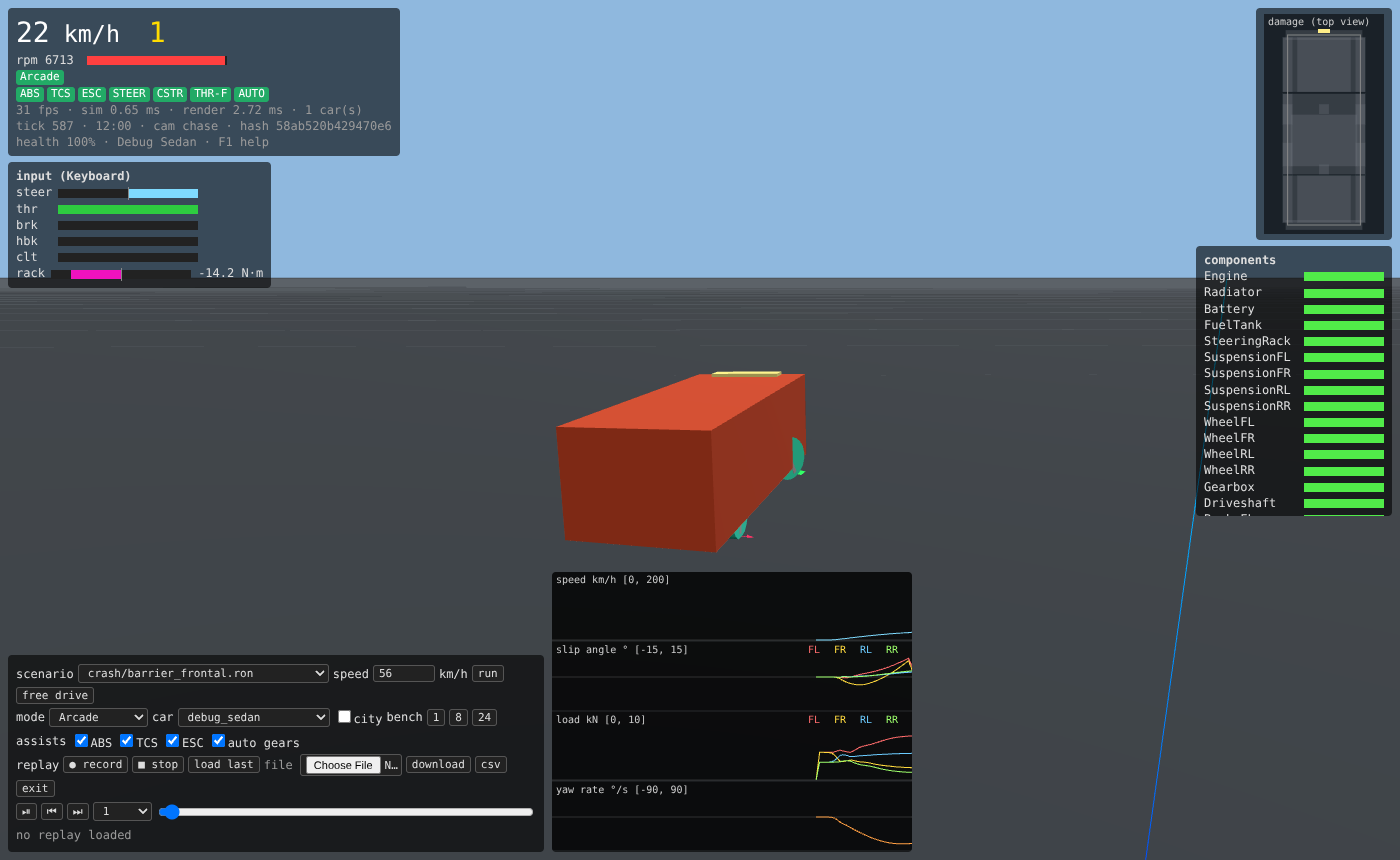
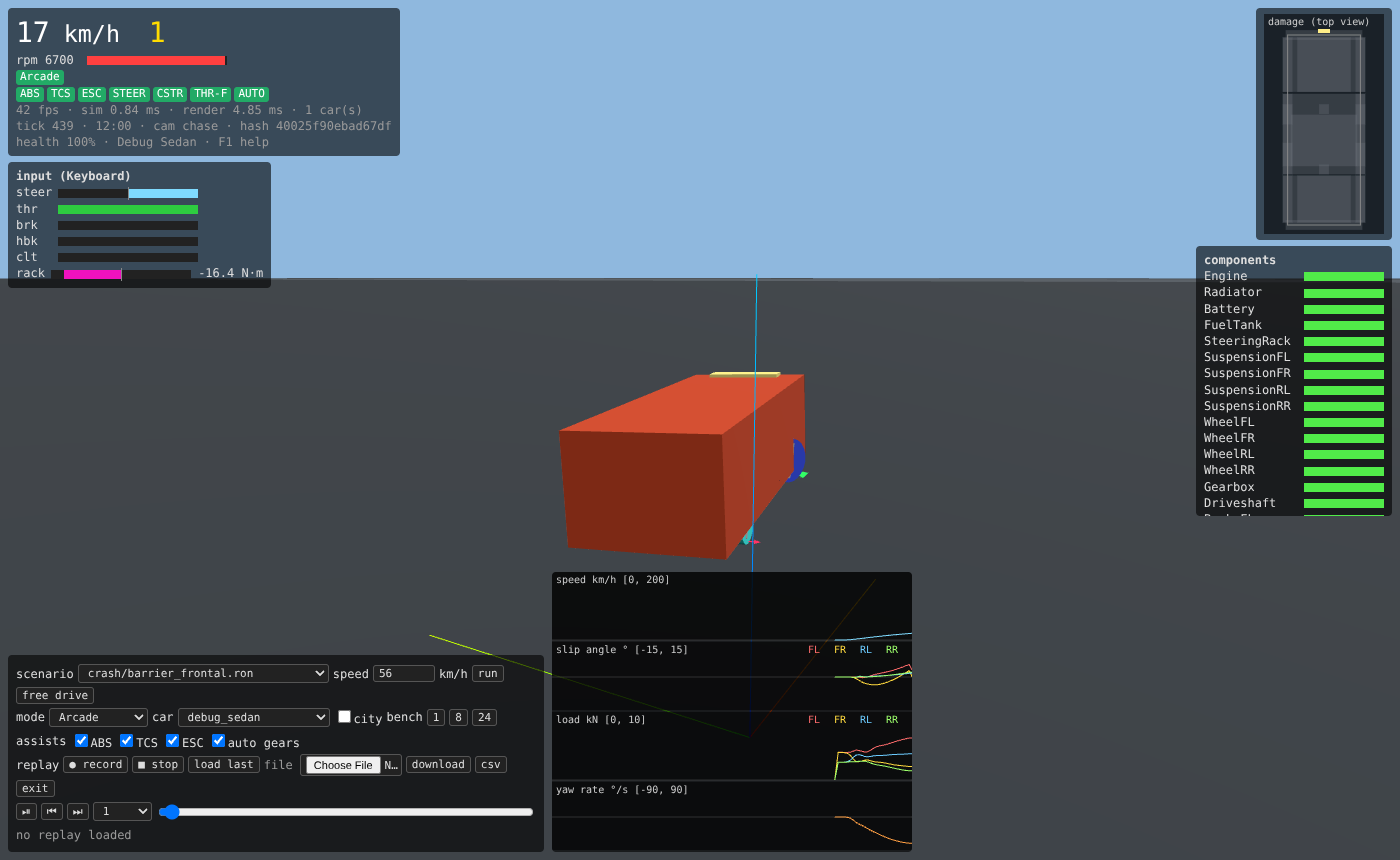
wp_wasm, testbed-web: contract v0.2.0 — tire forces from WheelState, event feed
- Telemetry / force arrows read WheelState::{fx_n, fy_n} (TB-1 landed).
- Event feed panel (hotkey V) shows GlassShattered, RegionDamaged, ComponentFailed,
  PartDetached, TotalLoss, TrafficViolation, ...; e2e checks it on the Sim barrier crash.
- e2e drive check less timing-sensitive; perf and screenshots re-measured.
- docs/integration/testbed.md: contract 0.2.0, run-4 response.

Claude-Session: https://claude.ai/code/session_01PhfNyt9hQ3sYqduitoFp9B

diff --git a/apps/testbed-web/src/hud.ts b/apps/testbed-web/src/hud.ts
@@ -1,7 +1,7 @@
 // DOM/canvas HUD: speed, rpm bar, gear, mode + assist badges, perf, damage silhouette,
 // component health, region energy, input display with rack-torque bar, help overlay.
 import { T } from "./wasm/layout";
-import type { AssistProfile, DriverInput, VehicleInfo } from "./wasm/sim";
+import type { AssistProfile, DriverInput, SimEvent, VehicleInfo } from "./wasm/sim";
 import { layers, LAYERS } from "./settings";
 import { heat, healthColour } from "./vehicle_view";
 
@@ -52,6 +52,8 @@ export class Hud {
   private readonly main: HTMLElement;
   private readonly comps: HTMLElement;
   private readonly regions: HTMLElement;
+  private readonly feed: HTMLElement;
+  private readonly feedLines: string[] = [];
   private readonly inputs: HTMLElement;
   private readonly help: HTMLElement;
   private readonly silhouette: HTMLCanvasElement;
@@ -67,6 +69,7 @@ export class Hud {
     right.appendChild(this.silhouette);
     this.comps = el("div", "panel comps", right);
     this.regions = el("div", "panel regions", right);
+    this.feed = el("div", "panel feed", right);
     this.inputs = el("div", "panel inputs", left);
     this.help = el("div", "panel help hidden", root);
     this.help.innerHTML =
@@ -75,6 +78,26 @@ export class Hud {
       `R reset · O headlights · Q horn · 1 chase · 2 hood · 3 bumper · 4 orbit · 5 cinematic<br>` +
       `F1 or ? this help · P pause · . frame step (replay) · [ / ] replay speed<br><br>` +
       LAYERS.map((l) => `${l.key.replace("Key", "")} — ${l.label}`).join("<br>");
+  }
+
+  /** Append notable sim events (damage, detachment, violations) to the event feed. */
+  pushEvents(events: SimEvent[], tick: number): void {
+    for (const ev of events) {
+      const [kind, body] = Object.entries(ev)[0] ?? [];
+      if (!kind || kind === "Contact" || kind === "LatticeDeformed") continue;
+      const b = (body ?? {}) as Record<string, unknown>;
+      const who = b.vehicle !== undefined ? `#${b.vehicle}` : "";
+      const detail = Object.entries(b)
+        .filter(([k]) => k !== "vehicle" && k !== "pos" && k !== "payload")
+        .map(([k, v]) => `${k}=${typeof v === "number" ? Number(v.toFixed(2)) : JSON.stringify(v)}`)
+        .join(" ");
+      this.feedLines.unshift(`${(tick / 240).toFixed(2)}s ${kind} ${who} ${detail}`);
+    }
+    this.feedLines.length = Math.min(this.feedLines.length, 12);
+  }
+
+  clearEvents(): void {
+    this.feedLines.length = 0;
   }
 
   toggleHelp(): void {
@@ -124,6 +147,12 @@ export class Hud {
         f.info.regions
           .map((r, i) => `<div>${r.padEnd(17, " ")}${f.energy![i].toFixed(0).padStart(6, " ")}</div>`)
           .join("");
+    }
+
+    this.feed.style.display = layers.on("events") && this.feedLines.length ? "" : "none";
+    if (layers.on("events")) {
+      this.feed.innerHTML =
+        "<b>events</b>" + this.feedLines.map((l) => `<div>${l.replace(/</g, "&lt;")}</div>`).join("");
     }
 
     this.inputs.style.display = layers.on("inputs") ? "" : "none";

diff --git a/apps/testbed-web/src/main.ts b/apps/testbed-web/src/main.ts
@@ -73,6 +73,7 @@ async function main(): Promise<void> {
     regions.clear();
     rests.clear();
     scene.clearContacts();
+    hud.clearEvents();
     plots.clear();
     syncViews();
     const ids = sim.entities();
@@ -373,7 +374,9 @@ async function main(): Promise<void> {
         focusRec = o;
       }
     }
-    scene.addEvents(sim.eventsDrain());
+    const events = sim.eventsDrain();
+    scene.addEvents(events);
+    hud.pushEvents(events, sim.worldInfo()[W.tick]);
     scene.update(dt, sim.intents());
     scene.updateAgents(sim.trafficAgents());
     const wi = sim.worldInfo();

diff --git a/apps/testbed-web/src/settings.ts b/apps/testbed-web/src/settings.ts
@@ -22,6 +22,7 @@ export const LAYERS: LayerDef[] = [
   { id: "intents", key: "KeyI", label: "traffic/police intent arrows", default: false },
   { id: "components", key: "KeyK", label: "component health panel", default: true },
   { id: "regions", key: "KeyE", label: "region energy panel", default: false },
+  { id: "events", key: "KeyV", label: "event feed (damage, glass, parts, violations)", default: true },
   { id: "telemetry", key: "KeyJ", label: "telemetry plots", default: true },
   { id: "inputs", key: "KeyN", label: "input display + rack torque", default: true },
 ];

diff --git a/apps/testbed-web/index.html b/apps/testbed-web/index.html
@@ -23,6 +23,7 @@
       .bar i { position: absolute; top: 0; bottom: 0; left: 0; }
       .bar b { position: absolute; top: -2px; bottom: -2px; left: 50%; width: 1px; background: #888; }
       .right-col { position: absolute; top: 8px; right: 8px; display: flex; flex-direction: column; gap: 6px; align-items: flex-end; }
+      .feed { max-width: 360px; max-height: 22vh; overflow: auto; font-size: 11px; }
       .comps, .regions { white-space: pre; max-height: 30vh; overflow: auto; }
       .comps .bar { width: 80px; }
       .inputs { }

diff --git a/crates/wp_wasm/src/pack.rs b/crates/wp_wasm/src/pack.rs
@@ -193,15 +193,9 @@ pub fn telemetry_names() -> Vec<String> {
     n
 }
 
-/// Telemetry record (see [`telemetry_names`]). `tire_forces` are the per-wheel `(Fx, Fy)` the
-/// vehicle applied this tick (`wp_vehicle::Telemetry::fx/fy`: Fx along the wheel heading, Fy
-/// positive to the wheel's left).
-pub fn pack_telemetry(
-    s: &VehicleState,
-    input: &VehicleInput,
-    accel_local: [f32; 3],
-    tire_forces: [(f32, f32); 4],
-) -> Vec<f32> {
+/// Telemetry record (see [`telemetry_names`]). Tire forces are the contract's
+/// `WheelState::{fx_n, fy_n}` (v0.2.0): applied this tick, tire frame, Fx + forward, Fy + left.
+pub fn pack_telemetry(s: &VehicleState, input: &VehicleInput, accel_local: [f32; 3]) -> Vec<f32> {
     let g = wp_contracts::GRAVITY_MPS2;
     let steer = (s.wheel_states[0].steer_rad + s.wheel_states[1].steer_rad) * 0.5;
     let mut out = vec![
@@ -219,8 +213,7 @@ pub fn pack_telemetry(
         input.steer,
         input.handbrake,
     ];
-    for (i, w) in s.wheel_states.iter().enumerate() {
-        let (fx, fy) = tire_forces[i];
+    for w in &s.wheel_states {
         out.extend_from_slice(&[
             w.slip_angle,
             w.slip_ratio,
@@ -230,8 +223,8 @@ pub fn pack_telemetry(
             b(w.contact),
             b(w.detached),
             w.omega,
-            fx,
-            fy,
+            w.fx_n,
+            w.fy_n,
         ]);
     }
     for c in ALL_COMPONENTS {
@@ -315,12 +308,7 @@ mod tests {
 
     #[test]
     fn telemetry_names_match_record() {
-        let rec = pack_telemetry(
-            &VehicleState::default(),
-            &VehicleInput::default(),
-            [0.0; 3],
-            [(0.0, 0.0); 4],
-        );
+        let rec = pack_telemetry(&VehicleState::default(), &VehicleInput::default(), [0.0; 3]);
         assert_eq!(rec.len(), telemetry_names().len());
         assert_eq!(
             TELEMETRY_WHEEL_BASE + 4 * TELEMETRY_WHEEL_STRIDE + ALL_COMPONENTS.len(),

diff --git a/crates/wp_wasm/src/session.rs b/crates/wp_wasm/src/session.rs
@@ -518,15 +518,6 @@ impl Session {
         self.index(id).map(|i| self.sim.vehicles()[i].vehicle.ffb())
     }
 
-    /// Tire forces `(Fx, Fy-left)` per wheel actually applied by the vehicle last tick, N.
-    pub fn tire_forces(&self, id: EntityId) -> [(f32, f32); 4] {
-        let Some(i) = self.index(id) else {
-            return [(0.0, 0.0); 4];
-        };
-        let t = self.sim.vehicles()[i].vehicle.telemetry();
-        std::array::from_fn(|w| (t.fx[w], t.fy[w]))
-    }
-
     /// Current input of a vehicle.
     pub fn input(&self, id: EntityId) -> VehicleInput {
         self.index(id)

diff --git a/crates/wp_wasm/src/lib.rs b/crates/wp_wasm/src/lib.rs
@@ -512,12 +512,7 @@ fn telemetry_record(s: &Session, entity: u32) -> Result<Vec<f32>, String> {
     let st = state_of(s, entity)?;
     let id = EntityId(entity);
     let accel = s.extra(id).map_or([0.0; 3], |x| x.accel_local);
-    Ok(pack::pack_telemetry(
-        &st,
-        &s.input(id),
-        accel,
-        s.tire_forces(id),
-    ))
+    Ok(pack::pack_telemetry(&st, &s.input(id), accel))
 }
 
 /// JSON array of telemetry channel names.

diff --git a/docs/integration/testbed.md b/docs/integration/testbed.md
@@ -3,7 +3,7 @@
 - **Workstream / prompt:** 04 — browser testbed, debug visualization, telemetry & replay
 - **Branch:** `ws/testbed`
 - **Crates / folders owned:** `crates/wp_wasm`, `apps/testbed-web`, `apps/testbed-native`
-- **Contract version built against:** 0.1.0
+- **Contract version built against:** 0.2.0
 
 ```sh
 just web          # wasm-pack (release) + Vite → http://localhost:5173
@@ -130,8 +130,8 @@ Car data (`data/{cars,lattices,tires,materials,modes}`) is embedded at build tim
 | 13 + 10·w | wheel w: `slip_angle_rad, slip_ratio, load_n, surface (index into vehicle_info().surfaces), compression_m, contact, detached, omega_rad_s, fx_n, fy_left_n` |
 | 53–73 | component health, in `vehicle_info().components` order |
 
-`fx_n` / `fy_left_n` are the forces the vehicle actually applied last tick
-(`wp_vehicle::Telemetry::fx/fy`): Fx along the wheel heading, Fy positive toward the wheel's left.
+`fx_n` / `fy_left_n` are the contract's `WheelState::{fx_n, fy_n}` (v0.2.0): forces applied last
+tick in the tire frame, Fx + forward along the wheel heading, Fy + toward the wheel's left.
 
 ### Scenarios
 Only simcli format v2 (`apps/simcli/SCENARIOS.md`). The menu lists `apps/simcli/scenarios/**`
@@ -174,6 +174,7 @@ hash per tick dominate). `simcli replay file.replay.bin` verifies a browser reco
 | I | traffic / police intent arrows |
 | K | component health panel |
 | E | region energy panel |
+| V | event feed (component failures, parts, glass, region damage, total loss, violations) |
 | J | telemetry plots |
 | N | input display + rack-torque bar |
 
@@ -232,7 +233,7 @@ window (top-down car box, 10 m grid, rack-torque bar; arrows/WASD, Space, R, Esc
 ## Contract change requests
 | # | Change | Status |
 |---|---|---|
-| TB-1 | `WheelState { fx_n, fy_n }` | Accepted for v0.2.0; testbed already uses the applied forces from `wp_vehicle::Telemetry` (no estimate left). |
+| TB-1 | `WheelState { fx_n, fy_n }` | **Landed in v0.2.0**; telemetry and force arrows read it (no estimate, no `wp_vehicle` internals). |
 | TB-2 | `DamageSim::region_energy_j` / node strain | Accepted in principle; still proxies here. |
 | TB-3 | static boxes | Done (`Sim::add_static_box`); used through scenario `barriers`. |
 | TB-4 | mode switch | Done (`Sim::set_mode_table`); used live, logged as a replay op. |
@@ -267,11 +268,13 @@ page (includes the session's per-tick state hash and input logging).
 | Measurement | Browser (this machine) | Budget (browser = 2× native) |
 |---|---|---|
 | sim-only, 1 car | 0.09 ms / 60 Hz frame | vehicle + lattice 0.8 ms/car |
-| sim-only, 8 cars | 0.62 ms | 6.4 ms |
-| sim-only, 24 cars | 3.0 ms | 19.2 ms |
-| sim-only, city + 192 traffic agents, 1 car | 0.27 ms | traffic 4 ms |
-| render (JS submit), 1 / 8 / 24 cars | 0.7 / 3.4 / 9.2 ms | — |
-| fps (SwiftShader) 1 / 8 / 24 cars | 12 / 11 / 9 | — |
+| sim-only, 8 cars | 0.69 ms | 6.4 ms |
+| sim-only, 24 cars | 2.4 ms | 19.2 ms |
+| sim-only, city + 192 traffic agents, 1 car | 0.31 ms | traffic 4 ms |
+| render (JS submit), 1 / 8 / 24 cars | 0.7 / 2.9 / 8.7 ms | — |
+| fps (SwiftShader) 1 / 8 / 24 cars | 13 / 12 / 9 | — |
+
+(Re-measured 2026-10-19 on contract v0.2.0 / main `502f72e` physics.)
 
 Rendering dominates; 24 cars with every per-car layer (lattice, stress, skinned body) would want
 instancing before Checkpoint 3. The first seconds of a city session are slower (traffic
@@ -352,3 +355,18 @@ Perf: please re-measure `?bench=24` now that the real model runs (your numbers w
 6. **Contact layer — verified.** e2e counts contact markers in all three crash scenarios.
 - Run 2 asks: `traffic_agents()` export (`[x, y, z, yaw, flags]`) and the procedural city greybox
   + traffic in free drive (**city** box) — done. Perf re-measured with the real models (table above).
+
+### Response — run 4 (2026-10-19, workstream 04, contract v0.2.0)
+- Merged `main` (`502f72e`, contract v0.2.0). Conflicts only in `testbed-web/src/{main,scene}.ts`
+  (main's relative URLs for the static build) — kept run-3 code with relative URLs everywhere.
+- v0.2.0 items for 04: tire forces now come from `WheelState::{fx_n, fy_n}` (TB-1 landed; the
+  `wp_vehicle::Telemetry` dependency is gone). New `GlassShattered` / `RegionDamaged` (and every
+  other non-contact event) appear in a new **event feed** panel (hotkey V); the wasm/TS code has
+  no exhaustive `SimEvent` matches, so nothing else needed changing.
+- Crash goldens re-blessed (`[bless]`, only `apps/simcli/golden/crash_*/hashes.txt`): main's
+  physics changes (tire data, shared ground collider) moved their hashes from tick 180 on; all
+  expectations still pass unchanged.
+- Checks: fmt, clippy `-D warnings` (incl. `testbed-native --features window,ffb`),
+  `cargo test --workspace`, wasm32 build, `npm run build`, `npm run e2e` (+ bench) all green.
+  Run-3 items (v2 natively, barriers, mode switch, replay.bin, tire forces, contacts, agents
+  export, city) are unchanged and still verified by e2e.
